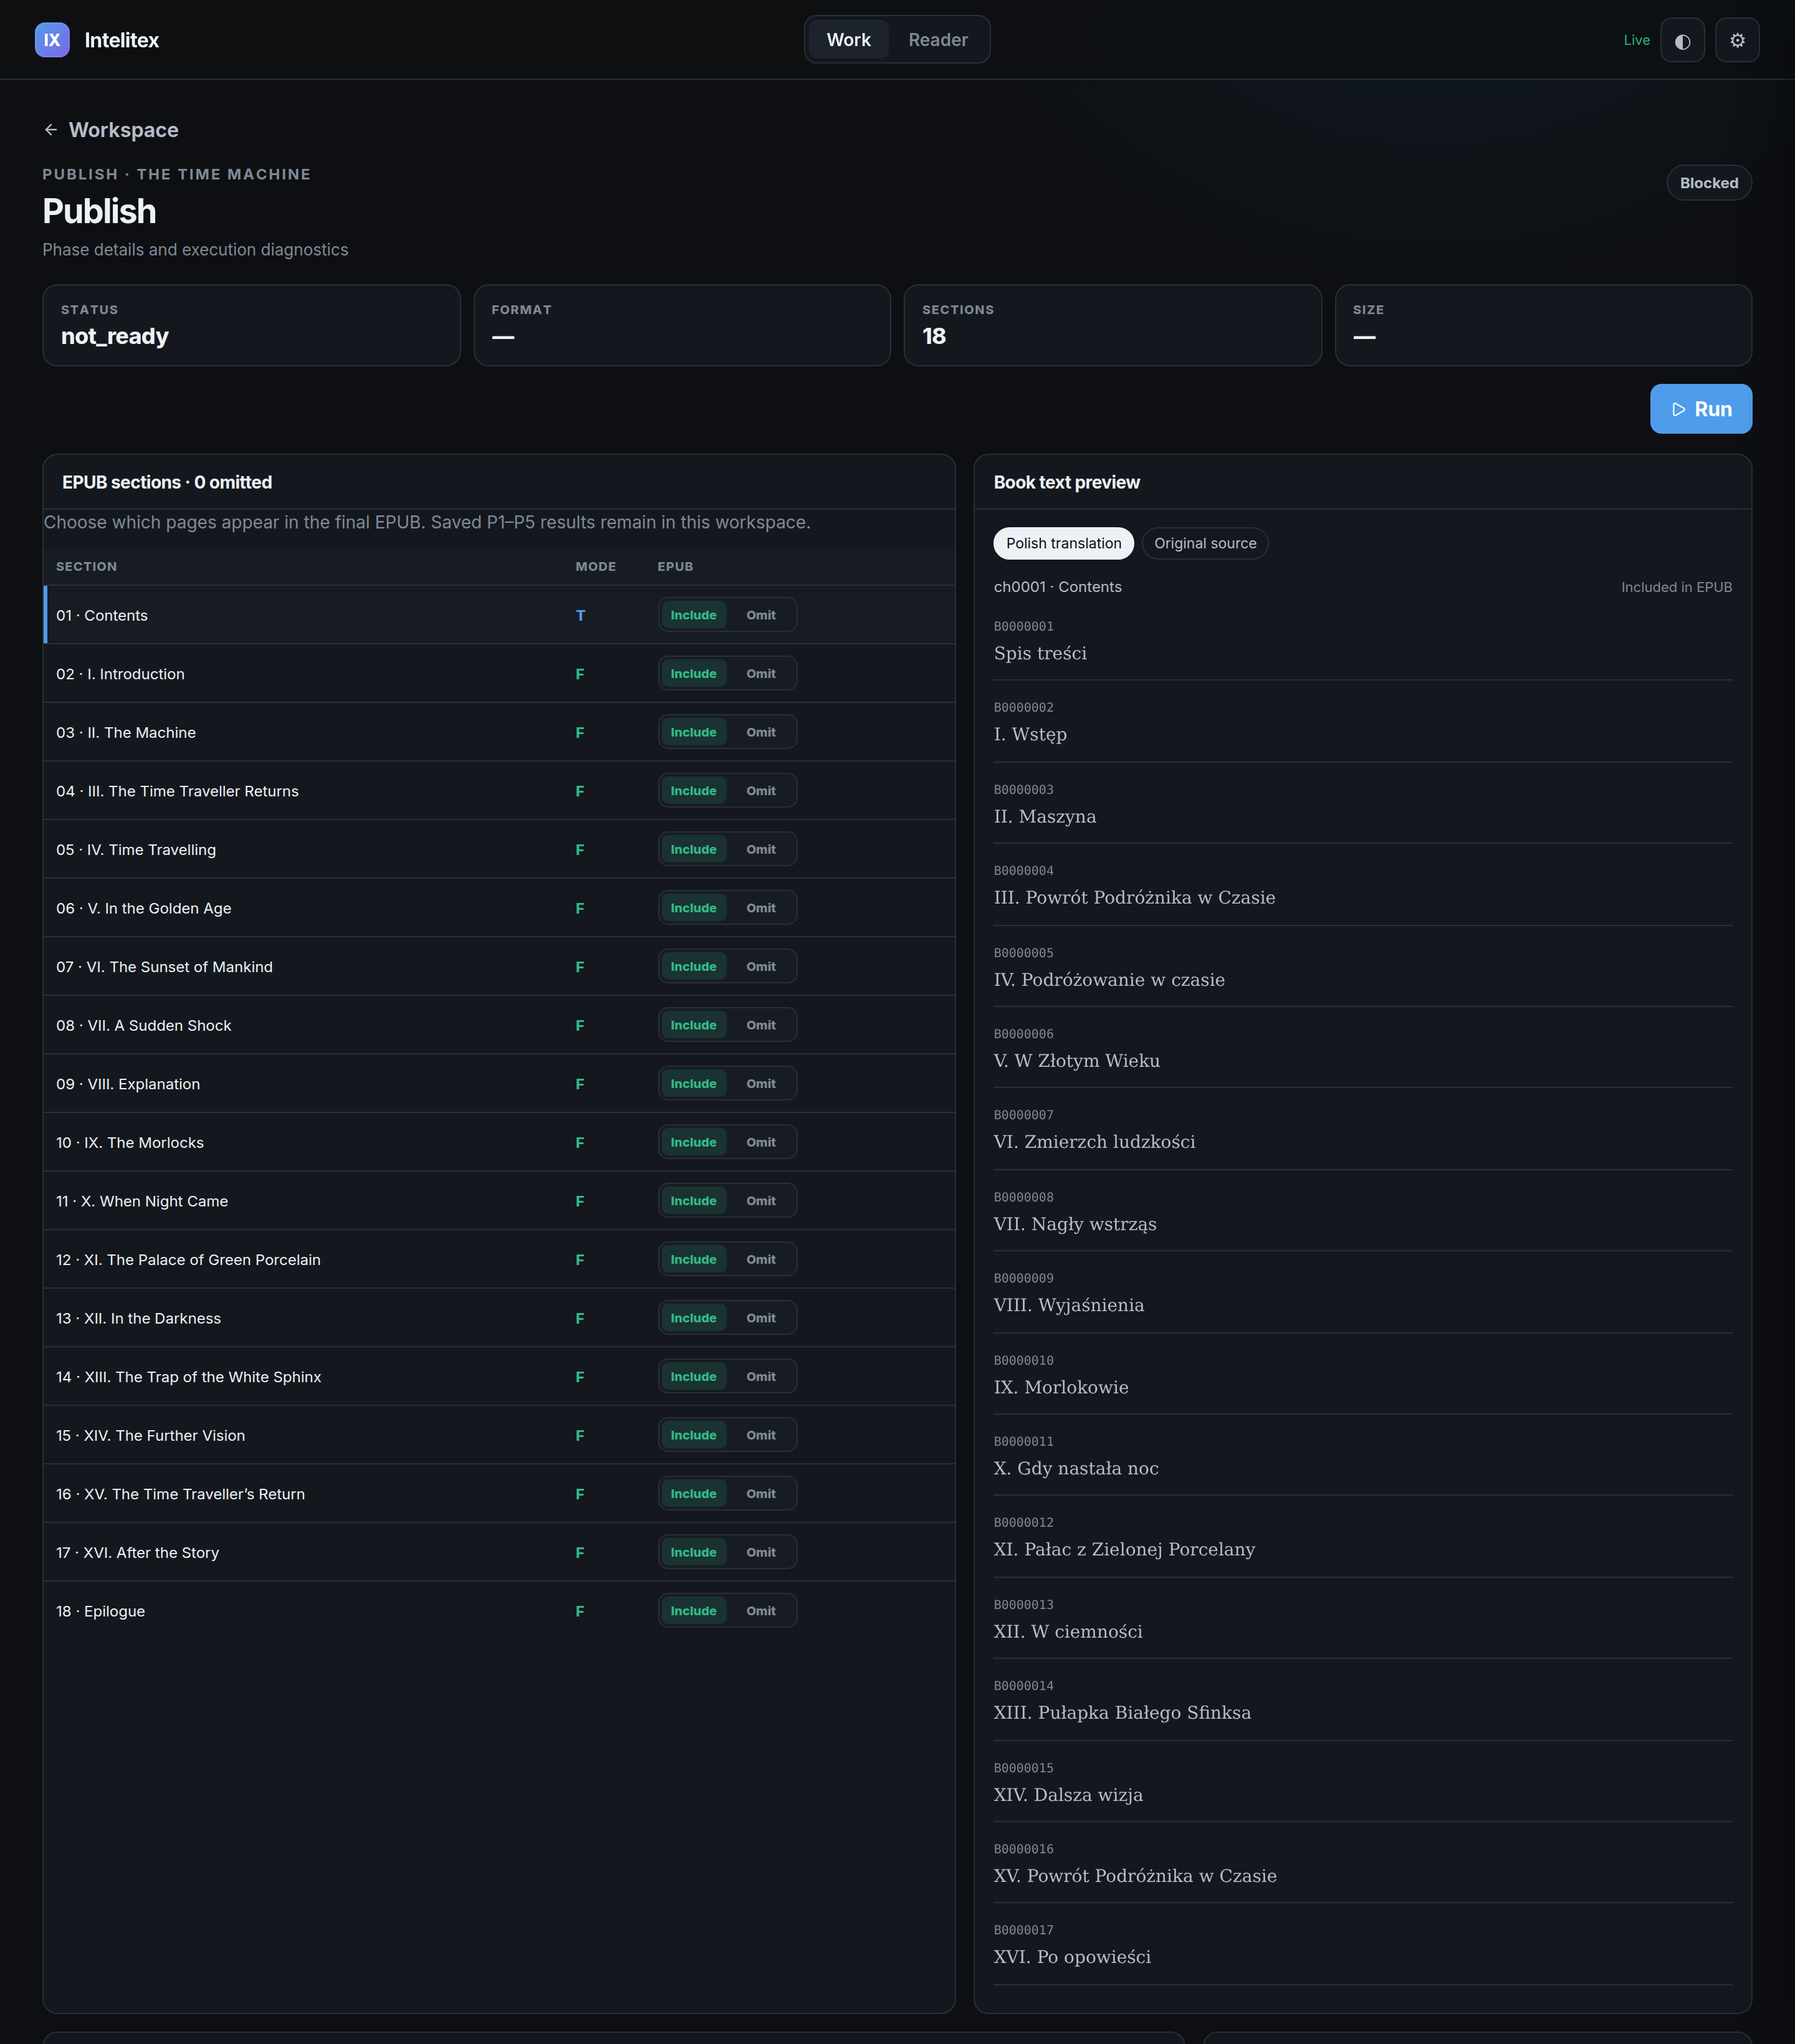
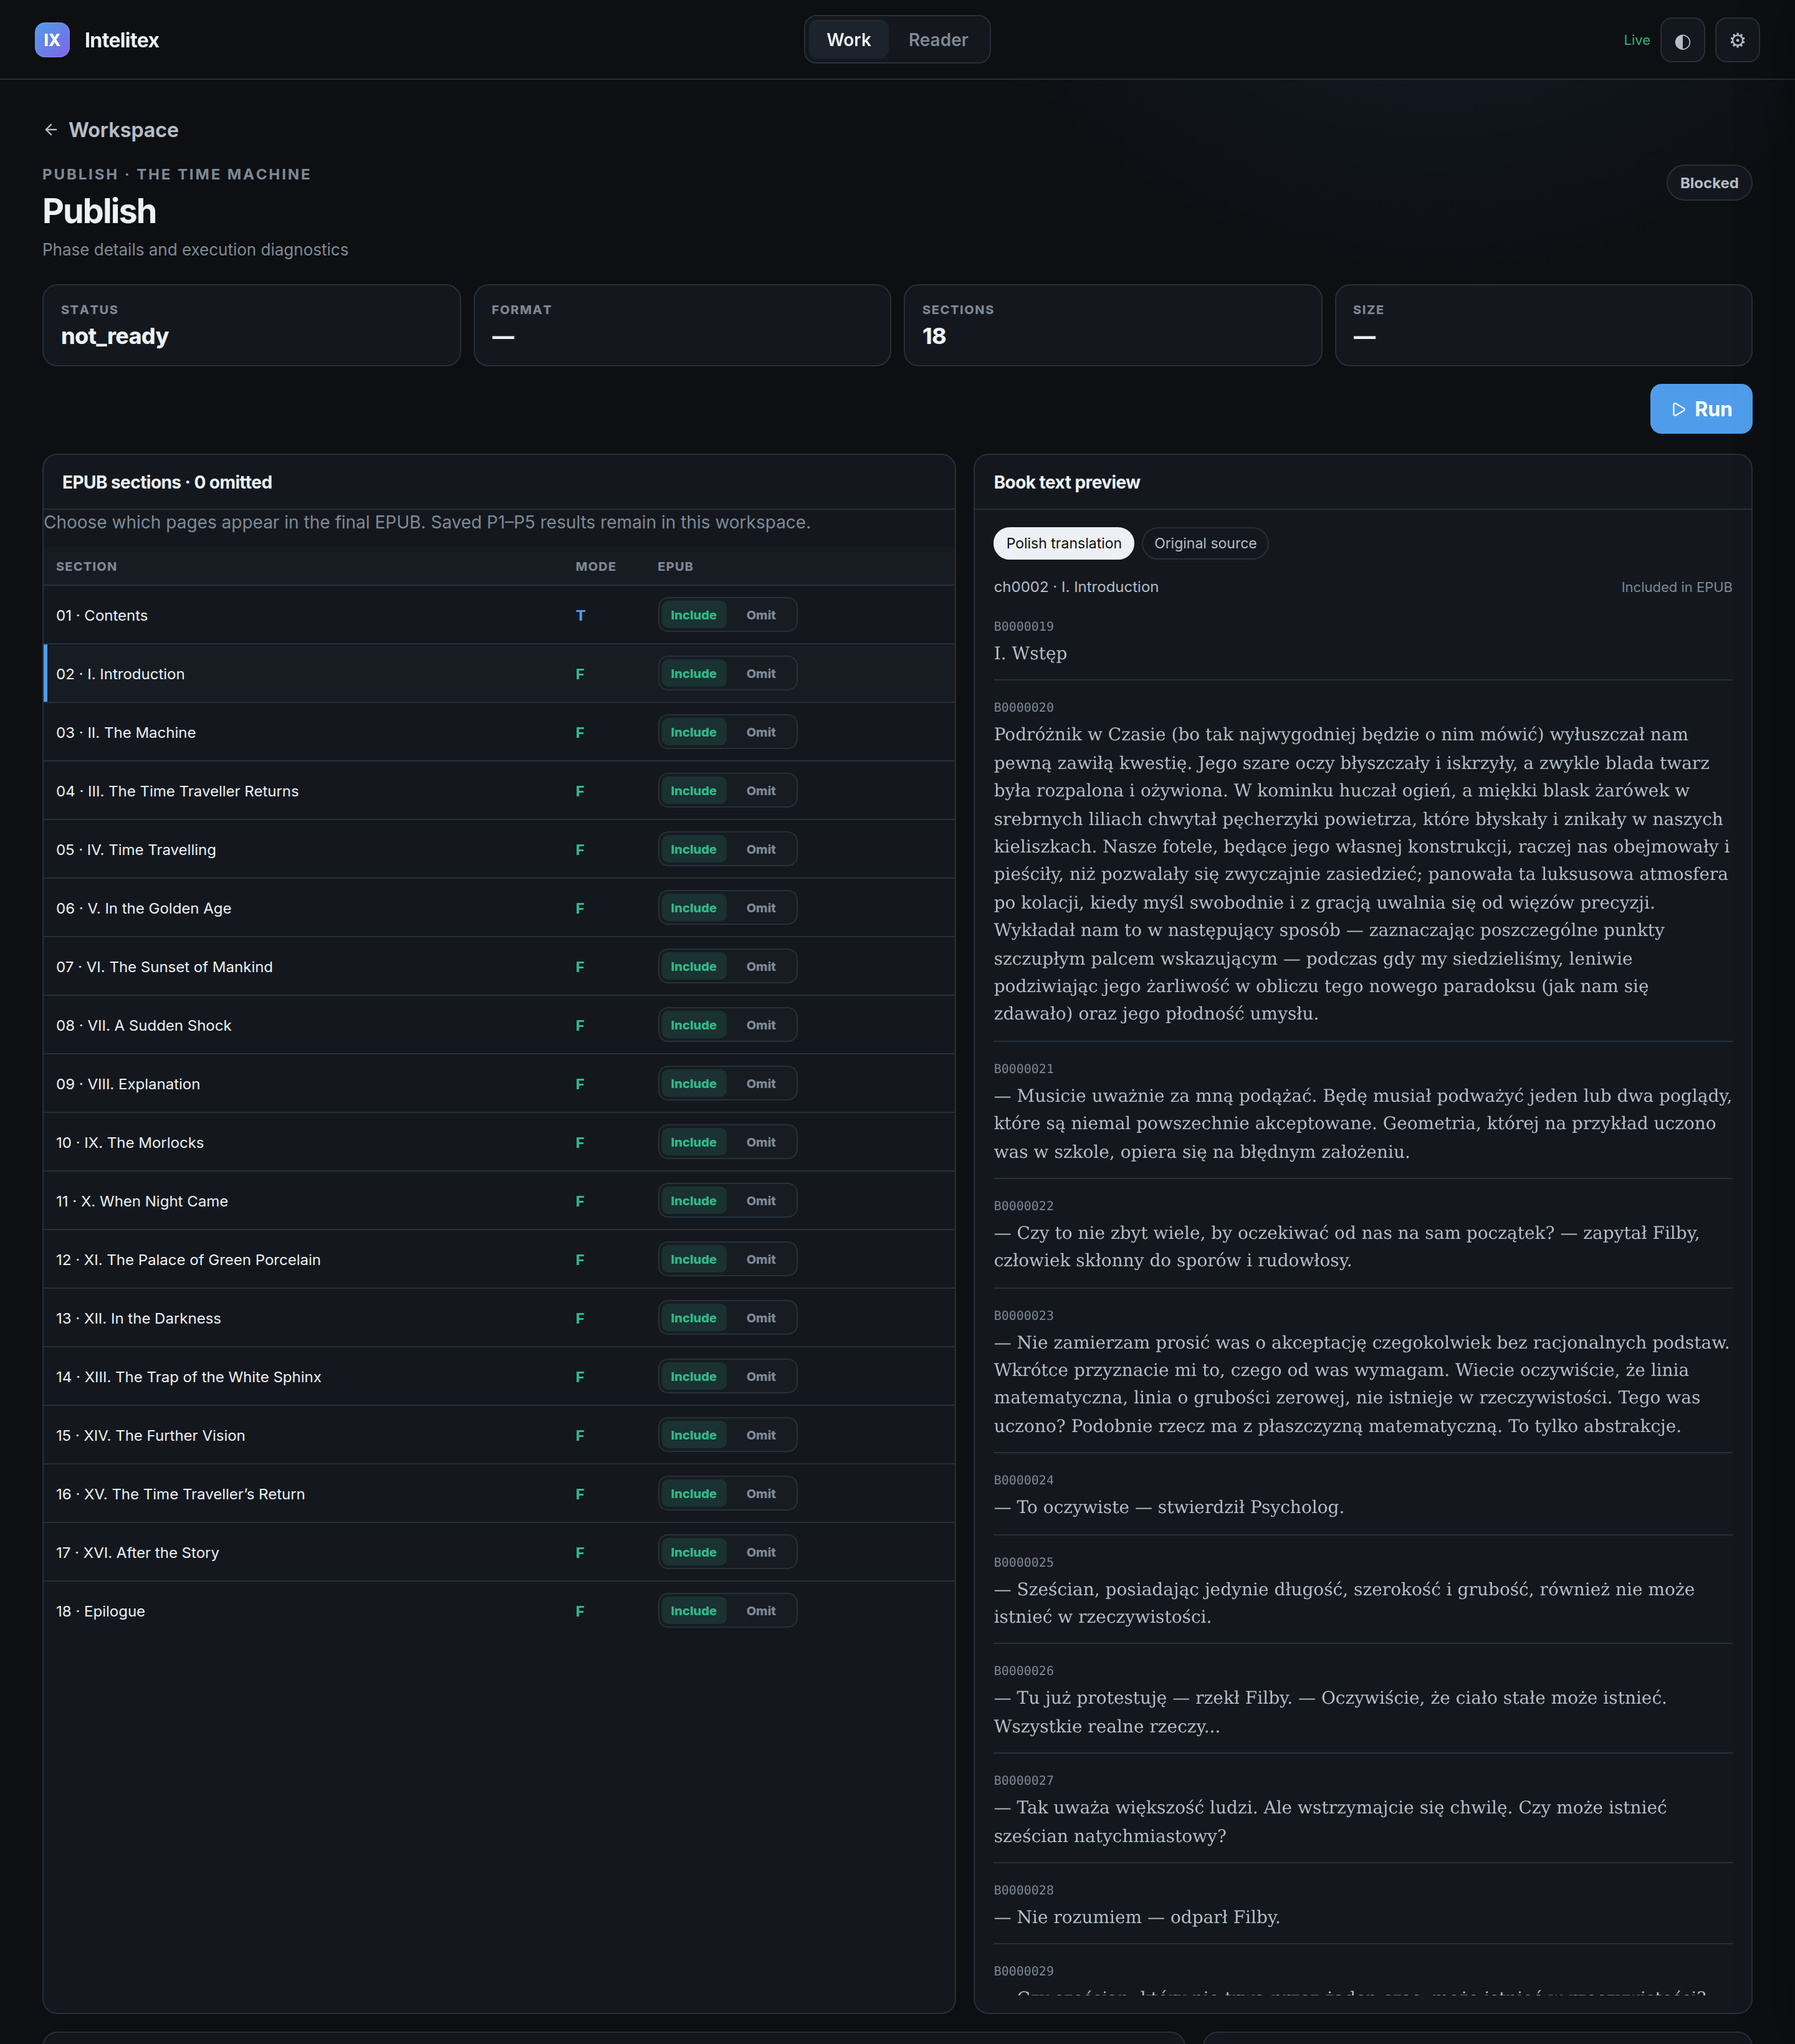
Polish the README gallery: drop Preload, select the second entry
Preload is not required for this workspace and the page was empty, so it is
out of the set. Translate and Publish now show I. Introduction, which has
real text, instead of the Contents list. Work captions say what the images
show: Books in progress and Library.

Claude-Session: https://claude.ai/code/session_011uC5oweoPeXTem6N7ZjAPf

Changed region(s): [[0.5625, 0.311, 0.9688, 0.964]]

diff --git a/README.md b/README.md
@@ -15,7 +15,7 @@ book title in the Reader follow the translation.
 
 ### Work
 
-| Books in progress (top) | Books in progress (bottom, with the Library) |
+| Books in progress | Library |
 |:--:|:--:|
 | <img src="docs/images/work-top.png" width="100%" alt="Work page: active workspaces"> | <img src="docs/images/work-bottom.png" width="100%" alt="Work page scrolled to the Library"> |
 
@@ -25,17 +25,17 @@ book title in the Reader follow the translation.
 |:--:|:--:|
 | <img src="docs/images/workspace-overview.png" width="100%" alt="Workspace overview"> | <img src="docs/images/workspace-section-preview.png" width="100%" alt="Section preview drawer"> |
 
-| Prepare | Preload · P0 |
+| Prepare | Analyse · P1 |
 |:--:|:--:|
-| <img src="docs/images/phase-prepare.png" width="100%" alt="Prepare phase"> | <img src="docs/images/phase-preload.png" width="100%" alt="Preload phase"> |
+| <img src="docs/images/phase-prepare.png" width="100%" alt="Prepare phase"> | <img src="docs/images/phase-analysis.png" width="100%" alt="Analyse phase"> |
 
-| Analyse · P1 | Review |
+| Review | Translate · P2–P5 |
 |:--:|:--:|
-| <img src="docs/images/phase-analysis.png" width="100%" alt="Analyse phase"> | <img src="docs/images/review-terminology.png" width="100%" alt="Terminology review"> |
+| <img src="docs/images/review-terminology.png" width="100%" alt="Terminology review"> | <img src="docs/images/phase-translate.png" width="100%" alt="Translate phase"> |
 
-| Translate · P2–P5 | Publish |
+| Publish | |
 |:--:|:--:|
-| <img src="docs/images/phase-translate.png" width="100%" alt="Translate phase"> | <img src="docs/images/phase-publish.png" width="100%" alt="Publish phase"> |
+| <img src="docs/images/phase-publish.png" width="100%" alt="Publish phase"> | |
 
 ### Reader
 
